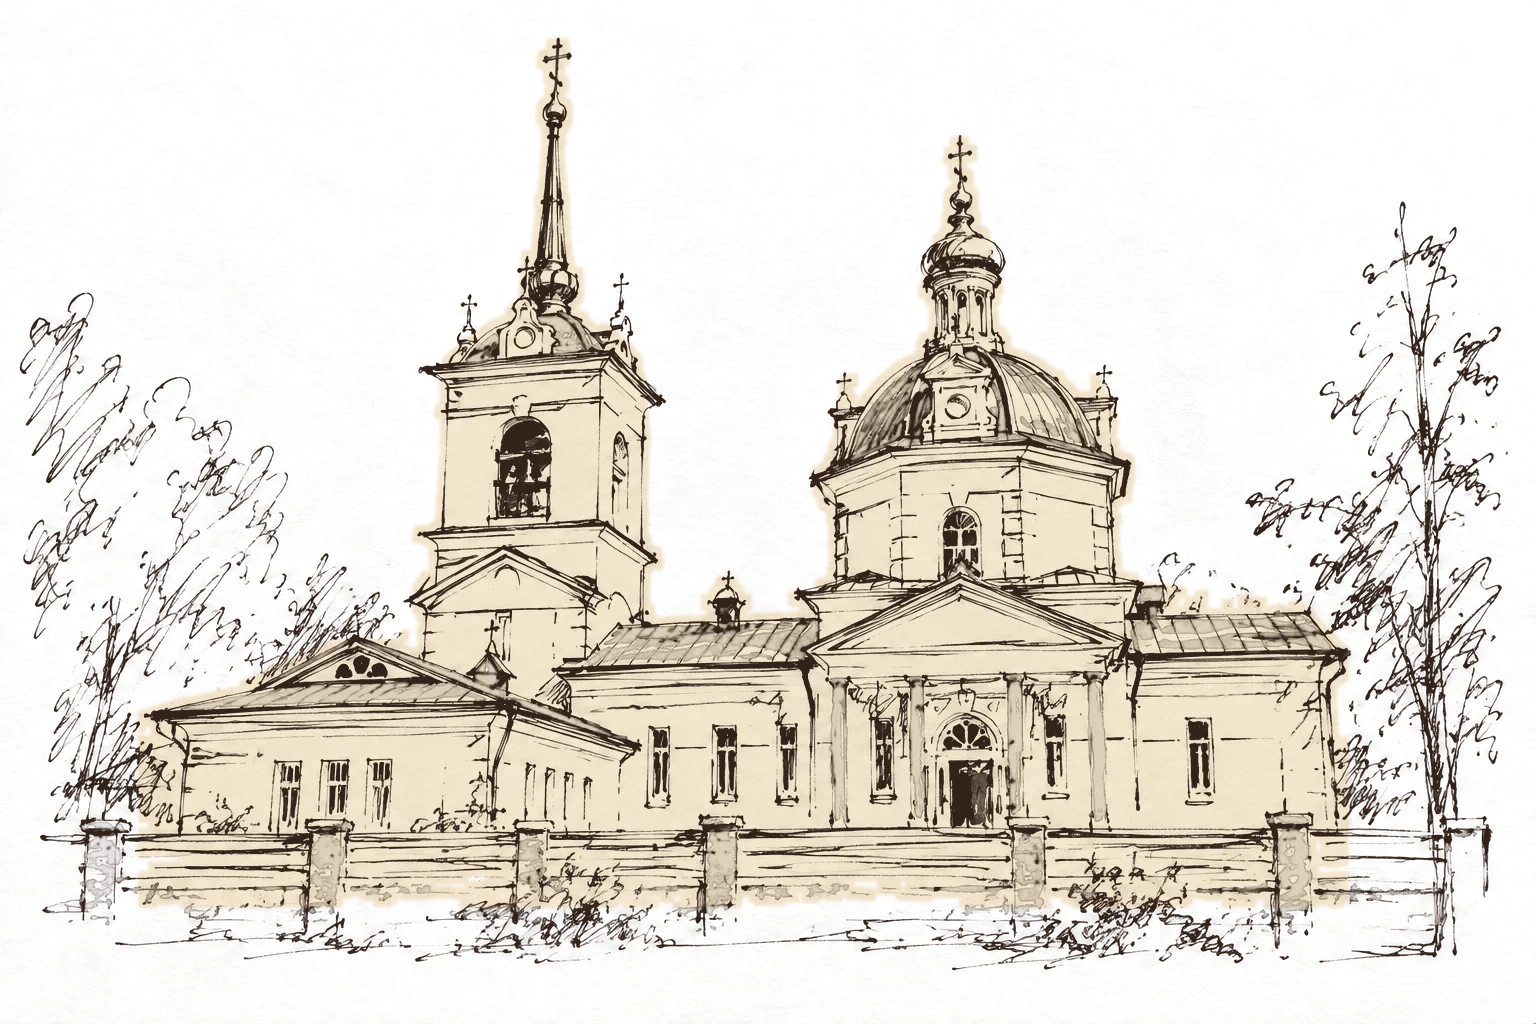
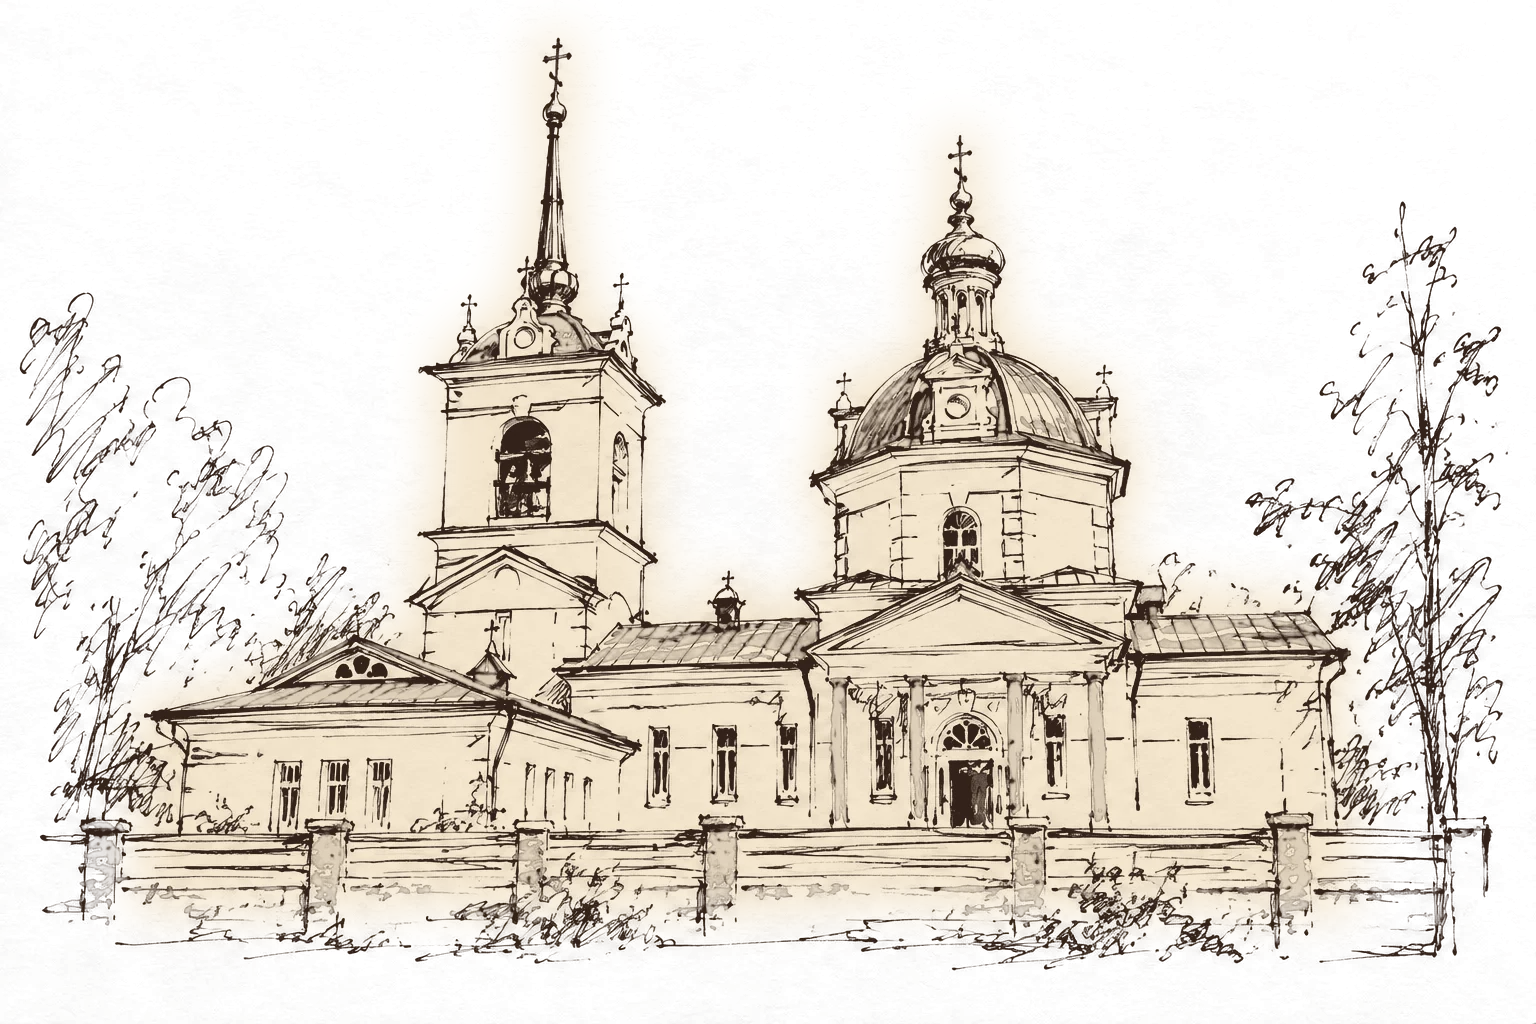
Фон бежевее, мягкий переход между храмом и фоном

diff --git a/index.html b/index.html
@@ -12,7 +12,7 @@
   --paper:#f5e6cd;--card:#fbf1df;--ink:#2a1d17;--mute:#6a584b;
   --red:#b3261e;--deep:#7d1712;--line:rgba(125,23,18,.28);
   --paper-2:#fbf1df;--paper-3:#efdbbb;
-  --page:#faf2e4;   /* the page: a lighter beige so text reads easily; the header and the church walls keep the paper tone */
+  --page:#f8ecd8;   /* the page: a lighter beige so text reads easily; the header and the church walls keep the paper tone */
   --title:'Ruslan Display';--hdr:64px;--gut:clamp(16px,4vw,48px);
   --wrap:1240px;--sec:clamp(48px,5vw,64px);
 }

diff --git a/site.css b/site.css
@@ -3,7 +3,7 @@
   --paper:#f5e6cd;--card:#fbf1df;--ink:#2a1d17;--mute:#6a584b;
   --red:#b3261e;--deep:#7d1712;--line:rgba(125,23,18,.28);
   --paper-2:#fbf1df;--paper-3:#efdbbb;
-  --page:#faf2e4;   /* the page: a lighter beige so text reads easily; the header and the church walls keep the paper tone */
+  --page:#f8ecd8;   /* the page: a lighter beige so text reads easily; the header and the church walls keep the paper tone */
   --title:'Ruslan Display';--hdr:64px;--gut:clamp(16px,4vw,48px);
   --wrap:1240px;--sec:clamp(48px,5vw,64px);
 }

diff --git a/raspisanie.html b/raspisanie.html
@@ -6,7 +6,7 @@
 <script>document.documentElement.classList.add('js')</script>
 <link rel="preconnect" href="https://fonts.googleapis.com"><link rel="preconnect" href="https://fonts.gstatic.com" crossorigin>
 <link href="https://fonts.googleapis.com/css2?family=Ruslan+Display&family=Forum&display=swap" rel="stylesheet">
-<link rel="stylesheet" href="site.css?v=8">
+<link rel="stylesheet" href="site.css?v=9">
 <style>
 :root{--wd:var(--ink)}
 /* Laptop: title and controls stay on the left, the month list scrolls on the right */

diff --git a/kontakty.html b/kontakty.html
@@ -6,7 +6,7 @@
 <script>document.documentElement.classList.add('js')</script>
 <link rel="preconnect" href="https://fonts.googleapis.com"><link rel="preconnect" href="https://fonts.gstatic.com" crossorigin>
 <link href="https://fonts.googleapis.com/css2?family=Ruslan+Display&family=Forum&display=swap" rel="stylesheet">
-<link rel="stylesheet" href="site.css?v=8">
+<link rel="stylesheet" href="site.css?v=9">
 <style>
 .ct-info{columns:2;column-gap:clamp(28px,5vw,64px)}
 .ct-info .blk{break-inside:avoid}

diff --git a/zapiski.html b/zapiski.html
@@ -6,7 +6,7 @@
 <script>document.documentElement.classList.add('js')</script>
 <link rel="preconnect" href="https://fonts.googleapis.com"><link rel="preconnect" href="https://fonts.gstatic.com" crossorigin>
 <link href="https://fonts.googleapis.com/css2?family=Ruslan+Display&family=Forum&display=swap" rel="stylesheet">
-<link rel="stylesheet" href="site.css?v=8">
+<link rel="stylesheet" href="site.css?v=9">
 <style>
 .zp{max-width:640px}
 /* Laptop: the slip on the left, the choices on the right */

diff --git a/treby.html b/treby.html
@@ -6,7 +6,7 @@
 <script>document.documentElement.classList.add('js')</script>
 <link rel="preconnect" href="https://fonts.googleapis.com"><link rel="preconnect" href="https://fonts.gstatic.com" crossorigin>
 <link href="https://fonts.googleapis.com/css2?family=Ruslan+Display&family=Forum&display=swap" rel="stylesheet">
-<link rel="stylesheet" href="site.css?v=8">
+<link rel="stylesheet" href="site.css?v=9">
 <style>
 .call{margin:0 0 36px}
 .tr{border-top:1px solid var(--line)}

diff --git a/o-hrame.html b/o-hrame.html
@@ -6,7 +6,7 @@
 <script>document.documentElement.classList.add('js')</script>
 <link rel="preconnect" href="https://fonts.googleapis.com"><link rel="preconnect" href="https://fonts.gstatic.com" crossorigin>
 <link href="https://fonts.googleapis.com/css2?family=Ruslan+Display&family=Forum&display=swap" rel="stylesheet">
-<link rel="stylesheet" href="site.css?v=8">
+<link rel="stylesheet" href="site.css?v=9">
 <style>
 .ctr{text-align:center}
 .mute{color:var(--mute)}
